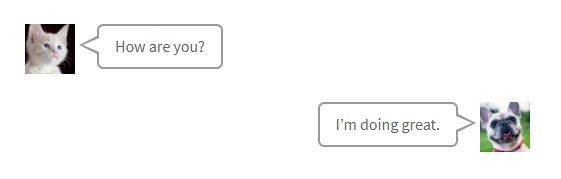
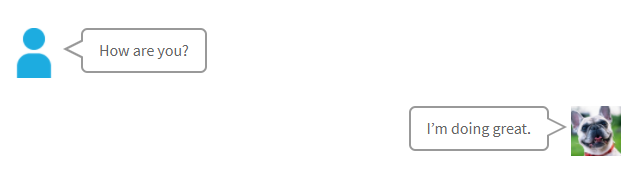
[fix]デフォルトアイコン変更
動物→普通の人のシルエット
README画像も入れ替え

Changed region(s): [[0.5455, 0.5682, 0.9697, 0.9091], [0.0, 0.1136, 0.3939, 0.4545], [0.3939, 0.1705, 0.4242, 0.3693]]

diff --git a/shortcodes/SpeechBubbleShortcode.php b/shortcodes/SpeechBubbleShortcode.php
@@ -21,7 +21,7 @@ class SpeechBubbleShortcode extends Shortcode
 
             // bubble side setting
             $side = $sc->getParameter('side');
-            if (empty($side)) {
+            if (empty($side) || ($side != 'left' && $side != 'right')) {
                 $side = 'left';
             }
 
